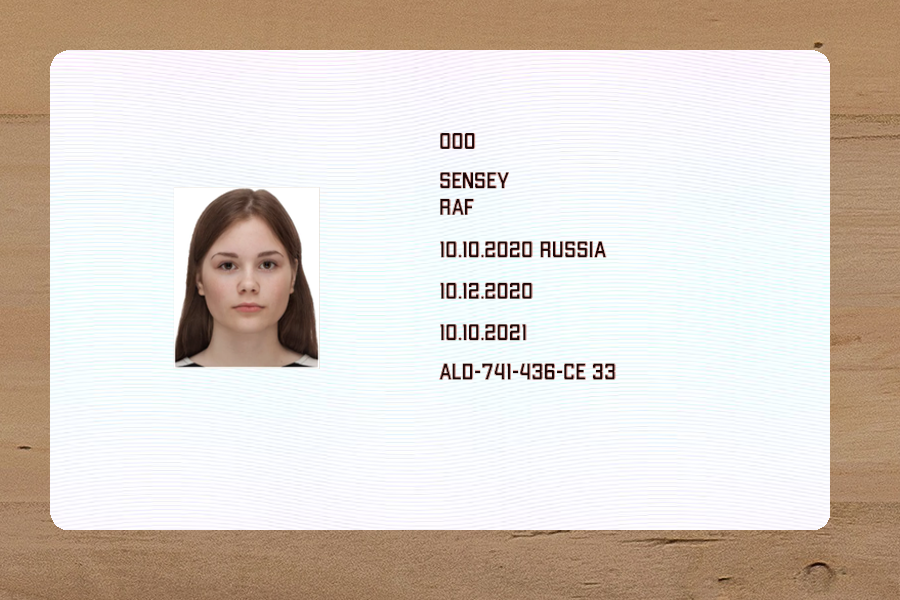
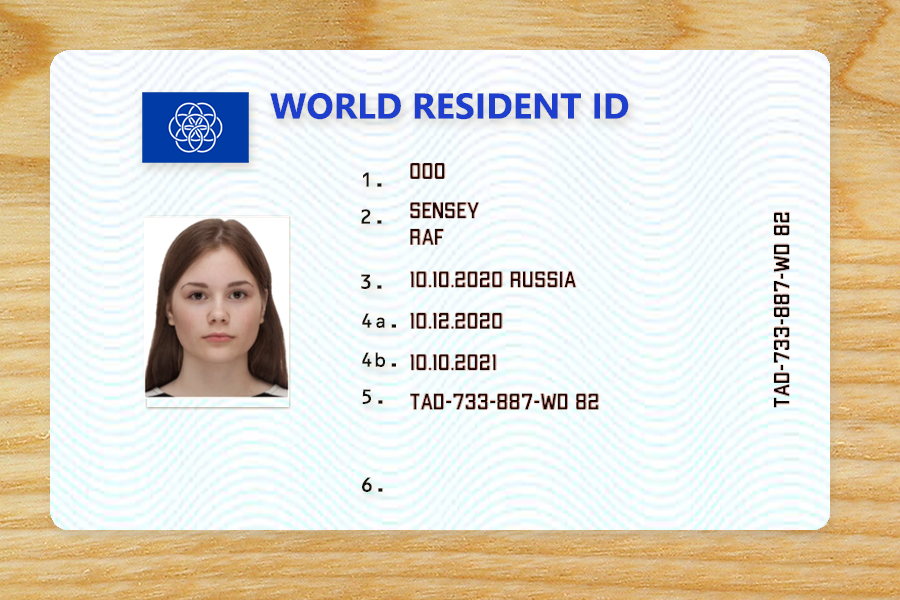
added static elements for realistic shit

diff --git a/main.py b/main.py
@@ -40,7 +40,6 @@ def generateToken():
 
     return str
 
-img1 = Image.open('sample.png')
 img1 = Image.new(mode = "RGBA", size = (780,480), color = (255, 0, 0, 0))
 
 img2 = Image.open('photos/1.png')
@@ -180,9 +179,23 @@ newsize = (780, 480)
 newwavesbg = newwavesbg.resize(newsize)
 waves = add_corners(newwavesbg, 20)
 
+
 ### assembling the image
 
 card.paste(waves, (0,0))
+
+
+### adding the static elements
+
+flag = Image.open('resourses/flag.png')
+numbers = Image.open('resourses/numbers.png')
+photo_shadow = Image.open('resourses/photo_shadow.png')
+
+card.paste(flag, (-30,-40), flag)
+card.paste(numbers, (-25,-22), numbers)
+card.paste(photo_shadow, (-25,-22), photo_shadow)
+
+### resizing the image for proper placement
 
 def changeImageSize(maxWidth, 
                     maxHeight, 
@@ -199,8 +212,12 @@ def changeImageSize(maxWidth,
 
 final_shit = changeImageSize(800,510, img1)
 
-card.paste(final_shit, (0,-70), final_shit)
+card.paste(final_shit, (-30,-40), final_shit)
 
 canvas.paste(card, (50,50), card)
+
+### adding the shadow
+card_shadow = Image.open('resourses/card_shadow.png')
+canvas.paste(card_shadow, (-10,-10), card_shadow)
 
 canvas.save('canvas.png')
